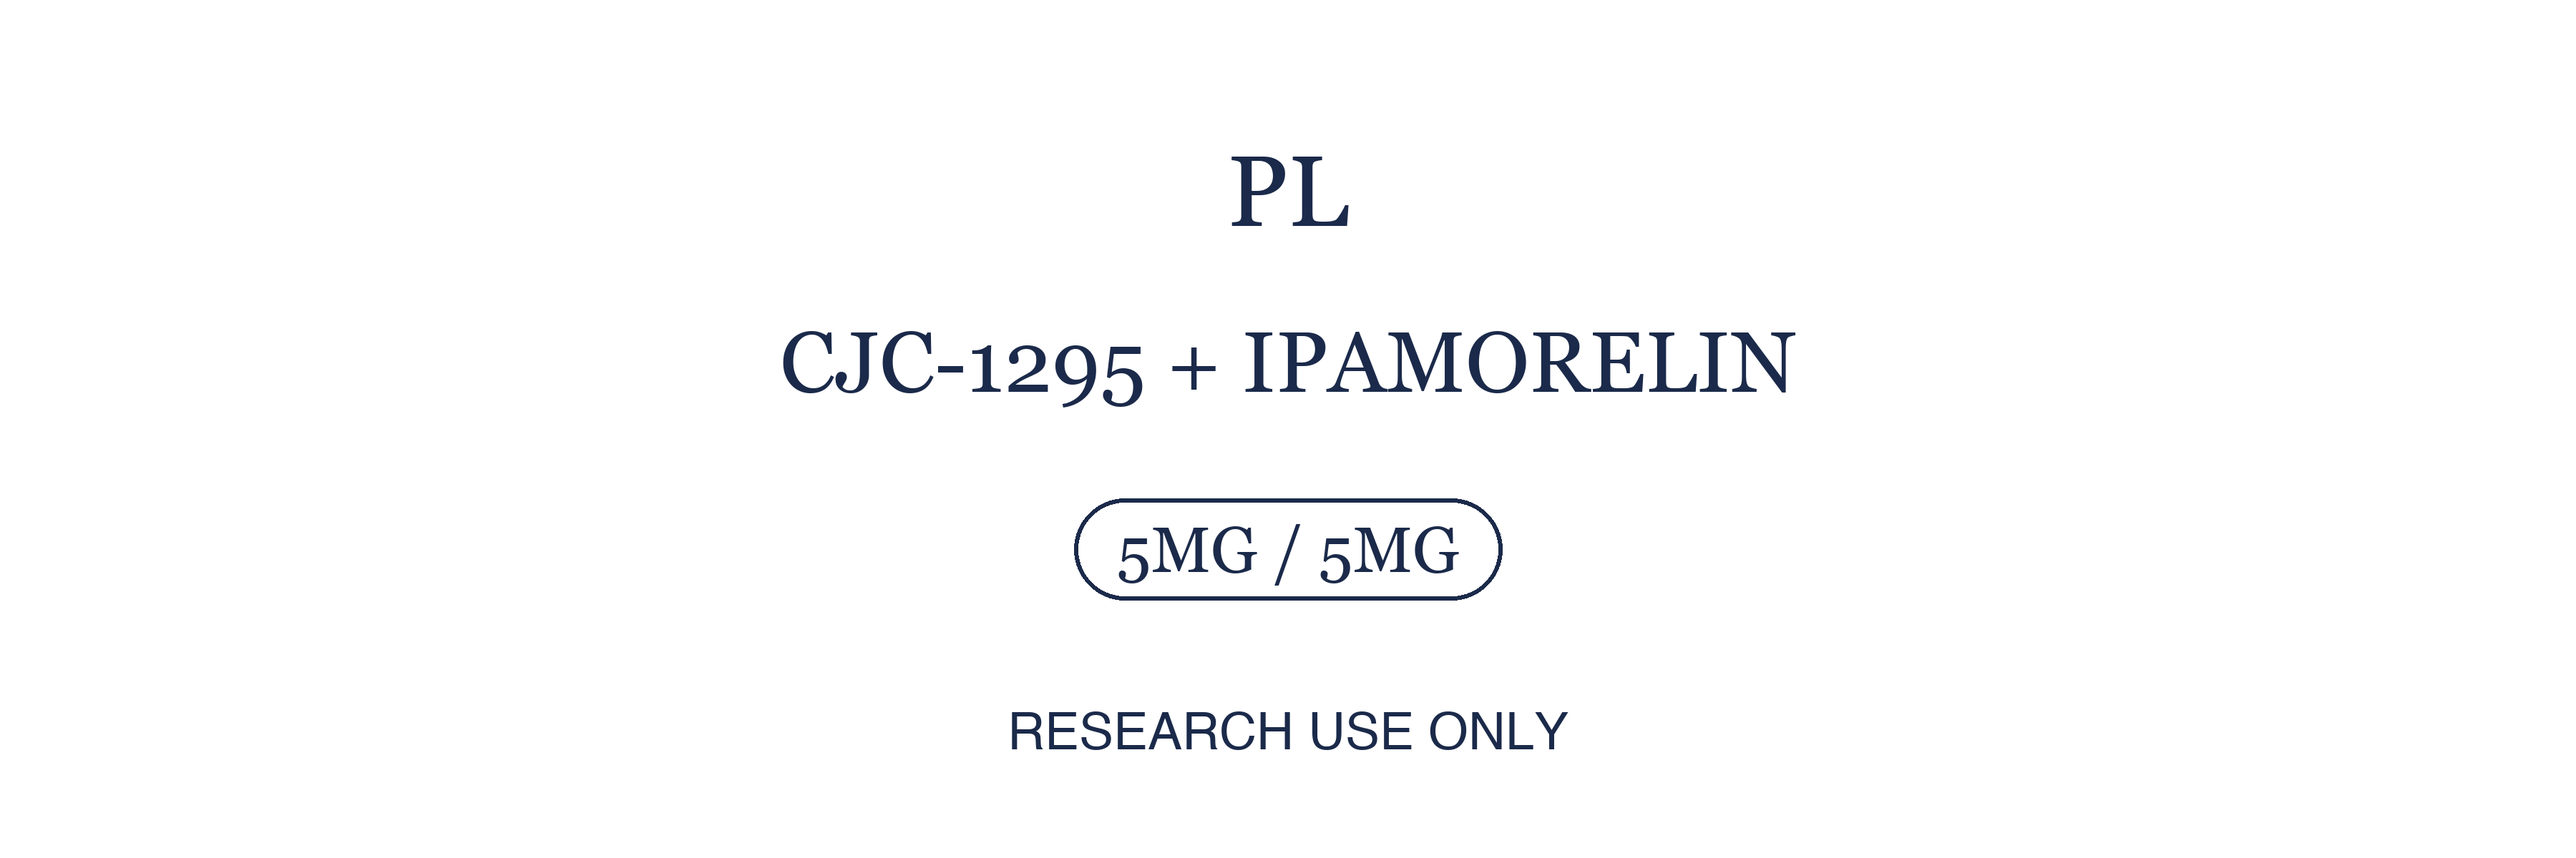
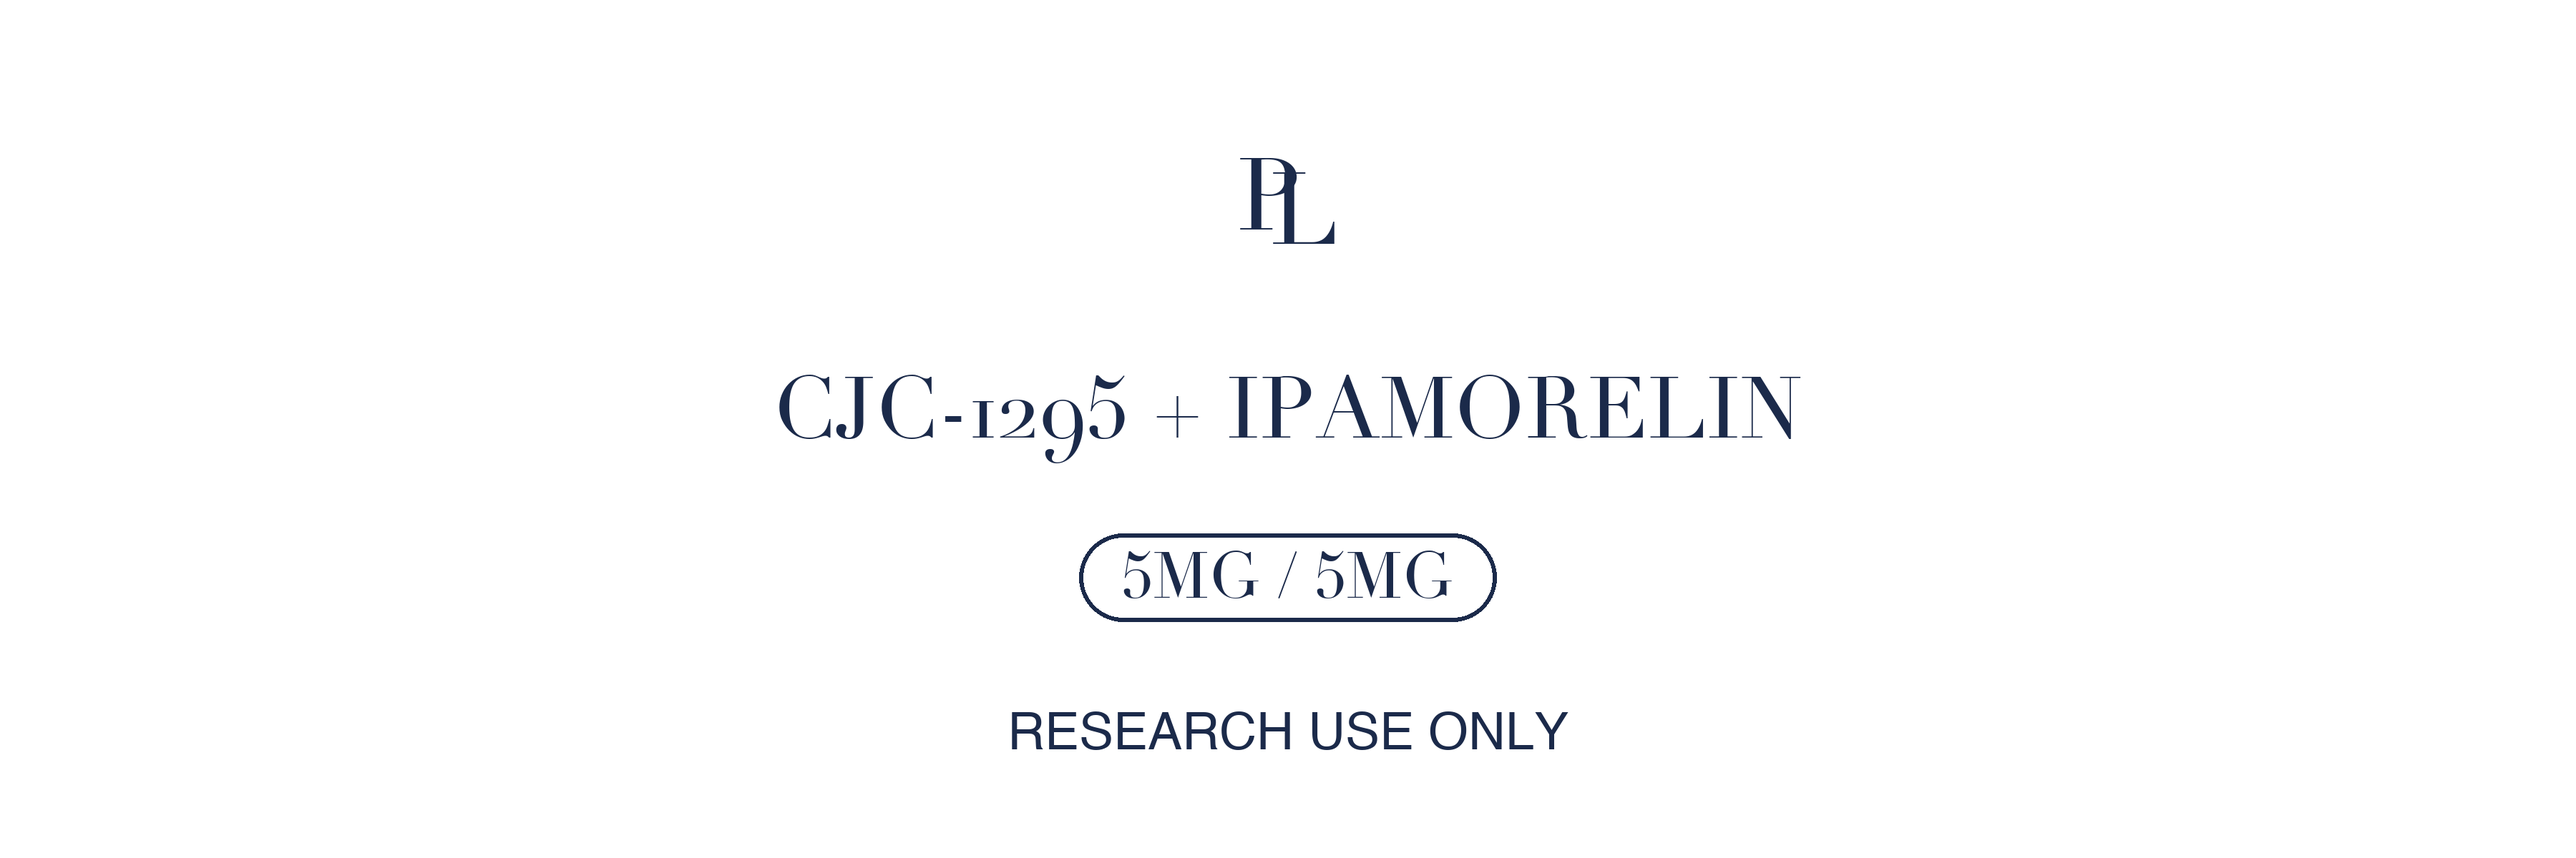
feat: Didot font + interlocked PL monogram on all vial labels

diff --git a/scripts/generate-labels.py b/scripts/generate-labels.py
@@ -9,20 +9,54 @@ W, H = 3600, 1200
 NAVY = (27, 42, 74, 255)
 TRANSPARENT = (0, 0, 0, 0)
 
-SERIF_PATHS = ["/System/Library/Fonts/Supplemental/Georgia.ttf"]
+SERIF_PATHS = [
+    "/System/Library/Fonts/Supplemental/Didot.ttc",
+    "/System/Library/Fonts/Supplemental/Georgia.ttf",
+]
 SANS_PATHS  = ["/System/Library/Fonts/Helvetica.ttc"]
 
-def load_font(paths, size):
+def load_font(paths, size, index=0):
     for p in paths:
         if os.path.exists(p):
-            return ImageFont.truetype(p, size)
+            try:
+                return ImageFont.truetype(p, size, index=index)
+            except Exception:
+                pass
     return ImageFont.load_default()
+
+def draw_pl_monogram(draw, cx, cy, font_size):
+    """Draw interlocked PL monogram centered at (cx, cy)."""
+    f = load_font(SERIF_PATHS, font_size)
+    # P positioned upper-left, L overlapping lower-right
+    p_bb = draw.textbbox((0, 0), "P", font=f)
+    l_bb = draw.textbbox((0, 0), "L", font=f)
+    p_w = p_bb[2] - p_bb[0]
+    p_h = p_bb[3] - p_bb[1]
+    l_w = l_bb[2] - l_bb[0]
+    l_h = l_bb[3] - l_bb[1]
+
+    # Overlap: L starts at ~half P width, drops ~20% of height
+    overlap_x = int(p_w * 0.50)
+    overlap_y = int(p_h * 0.20)
+    total_w = p_w + l_w - overlap_x
+    total_h = p_h + overlap_y
+
+    # Center the whole monogram block
+    start_x = cx - total_w // 2
+    start_y = cy - total_h // 2
+
+    p_x = start_x - p_bb[0]
+    p_y = start_y - p_bb[1]
+    l_x = start_x + p_w - overlap_x - l_bb[0]
+    l_y = start_y + overlap_y - l_bb[1]
+
+    draw.text((p_x, p_y), "P", fill=NAVY, font=f)
+    draw.text((l_x, l_y), "L", fill=NAVY, font=f)
 
 def draw_label(filename, product_name, dosage):
     img  = Image.new("RGBA", (W, H), TRANSPARENT)
     draw = ImageDraw.Draw(img)
 
-    font_logo   = load_font(SERIF_PATHS, 140)
     font_name   = load_font(SERIF_PATHS, 160) if len(product_name) <= 12 else load_font(SERIF_PATHS, 120)
     font_dosage = load_font(SERIF_PATHS, 90)
     font_tag    = load_font(SANS_PATHS,  72)
@@ -30,28 +64,26 @@ def draw_label(filename, product_name, dosage):
     pill_pad_x = 60
     pill_pad_y = 28
 
-    # Measure each element
-    logo_bb  = draw.textbbox((0,0), "PL",               font=font_logo)
+    # Monogram size
+    MONO_SIZE = 140
+    MONO_H    = int(MONO_SIZE * 1.35)  # approx rendered height with overlap
+
     name_bb  = draw.textbbox((0,0), product_name,        font=font_name)
     dose_bb  = draw.textbbox((0,0), dosage,              font=font_dosage)
     tag_bb   = draw.textbbox((0,0), "RESEARCH USE ONLY", font=font_tag)
 
-    logo_h = logo_bb[3] - logo_bb[1]
     name_h = name_bb[3] - name_bb[1]
     dose_h = dose_bb[3] - dose_bb[1]
     tag_h  = tag_bb[3]  - tag_bb[1]
     pill_h = dose_h + pill_pad_y * 2
 
-    # Match original GLP-3RT proportions:
-    # content starts at y=187, ends at y=1047  =>  span=860, start=187
     CONTENT_START = 187
     CONTENT_END   = 1047
-    CONTENT_SPAN  = CONTENT_END - CONTENT_START  # 860
+    CONTENT_SPAN  = CONTENT_END - CONTENT_START
 
-    # Four elements with three gaps between them
-    total_elements_h = logo_h + name_h + pill_h + tag_h
+    total_elements_h = MONO_H + name_h + pill_h + tag_h
     total_gap = CONTENT_SPAN - total_elements_h
-    gap = total_gap // 3  # equal gaps between 4 elements
+    gap = total_gap // 3
 
     y = CONTENT_START
 
@@ -61,9 +93,11 @@ def draw_label(filename, product_name, dosage):
         draw.text(((W - tw) // 2, y_pos), text, fill=NAVY, font=font)
         return bb[3] - bb[1]
 
-    # 1. PL logo
-    h = draw_centered_text("PL", font_logo, y)
-    y += h + gap
+    # 1. PL monogram
+    mono_cx = W // 2
+    mono_cy = y + MONO_H // 2
+    draw_pl_monogram(draw, mono_cx, mono_cy, MONO_SIZE)
+    y += MONO_H + gap
 
     # 2. Product name
     h = draw_centered_text(product_name, font_name, y)
